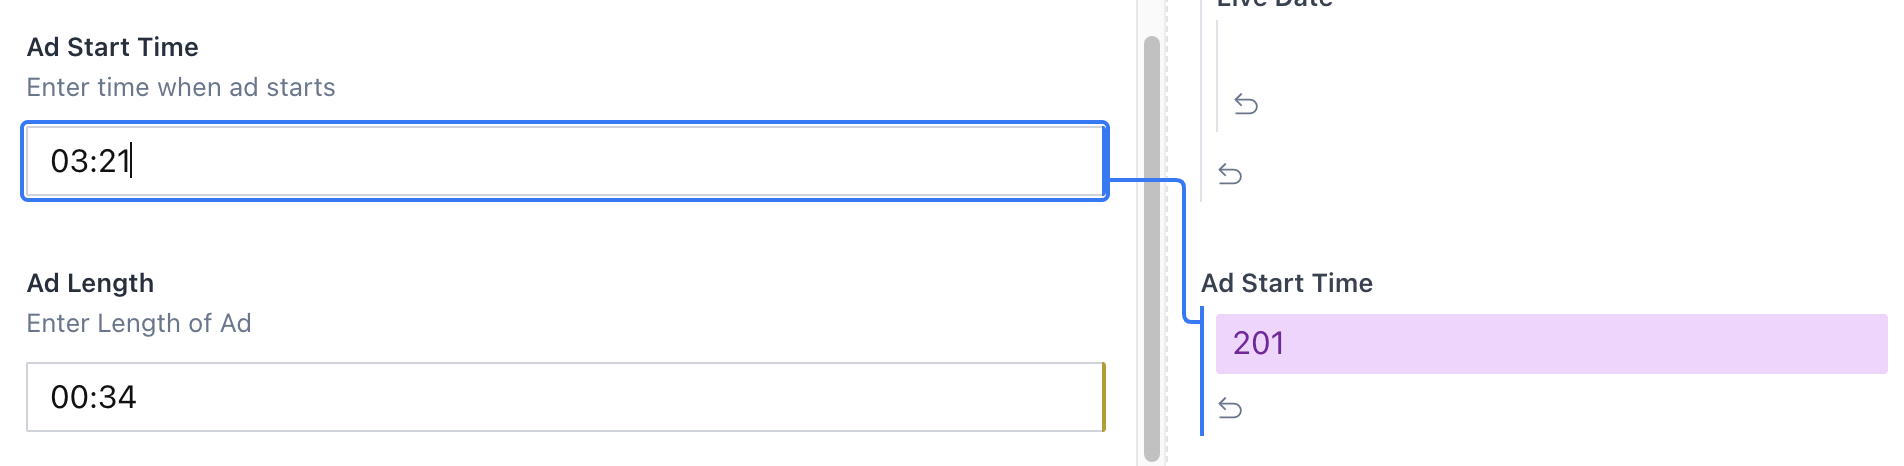
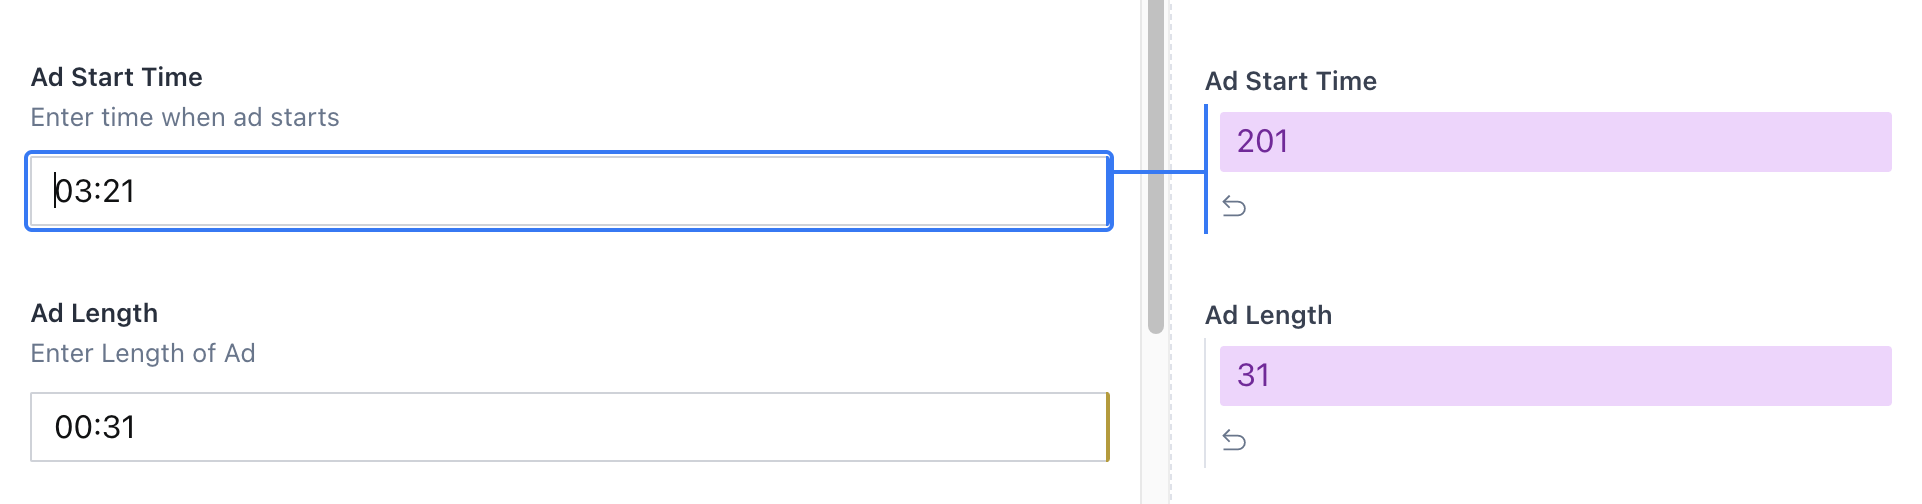
Updated with post link

Changed region(s): [[0.0, 0.0, 0.9916, 0.9914], [0.0, 0.5708, 0.1549, 0.721], [0.0, 0.8112, 0.093, 0.8712]]

diff --git a/README.md b/README.md
@@ -2,6 +2,9 @@
 
 For entering values in `mm:ss` format like `03:45`, and reflecting them in your sanity model as second numeric values. This input can be used to both reflect a time or a second length. The intention is to make it easier for CMS managers to input these values when referencing playback.
 
+
+For more info, [see this post](https://seansy.medium.com/sanity-io-the-time-seconds-field-e5f2db779bb3) on how to integrate with your sanity model
+
 ## Installation
 
 ```bash
@@ -16,7 +19,7 @@ Then you can use the `TimeToSecondsField` as an input component. Playback marker
 import TimeToSecondsField from 'sanity-plugin-time-seconds'
 
 {
-  name: "timeSeconds", //Give your sanity field a name
+  name: "adStartTime", //Give your sanity field a name
   description: "Time when ad starts", //Give it a description
   type: "number", //Must always be number
   inputComponent: TimeToSecondsField,
@@ -32,15 +35,16 @@ This is what the field looks like. On the right, the field's value is an int, re
 
 For fields in the schema like:
 ```javascript
+import TimeToSecondsField from 'sanity-plugin-time-seconds'
 {
   name: "adStartTime",
   title: "Ad Start Time",
   type: "number",
   inputComponent: TimeToSecondsField,
-  description: "Enter time when ad starts",
+  description: "Time in the podcast when ad should start",
   options: {
     placeholder: "Value in 00:00 format",
-  },
+  }
 },
 {
   name: "adPlaybackLength",
@@ -49,9 +53,9 @@ For fields in the schema like:
   inputComponent: TimeToSecondsField,
   description: "Enter Length of Ad",
   options: {
-    placeholder: "Value in 00:00 format",
-  },
-},
+    placeholder: "Ad Length, value in 00:00 format",
+  }
+}
 ```
 `TimeToSecondsField` represents it like:
 
